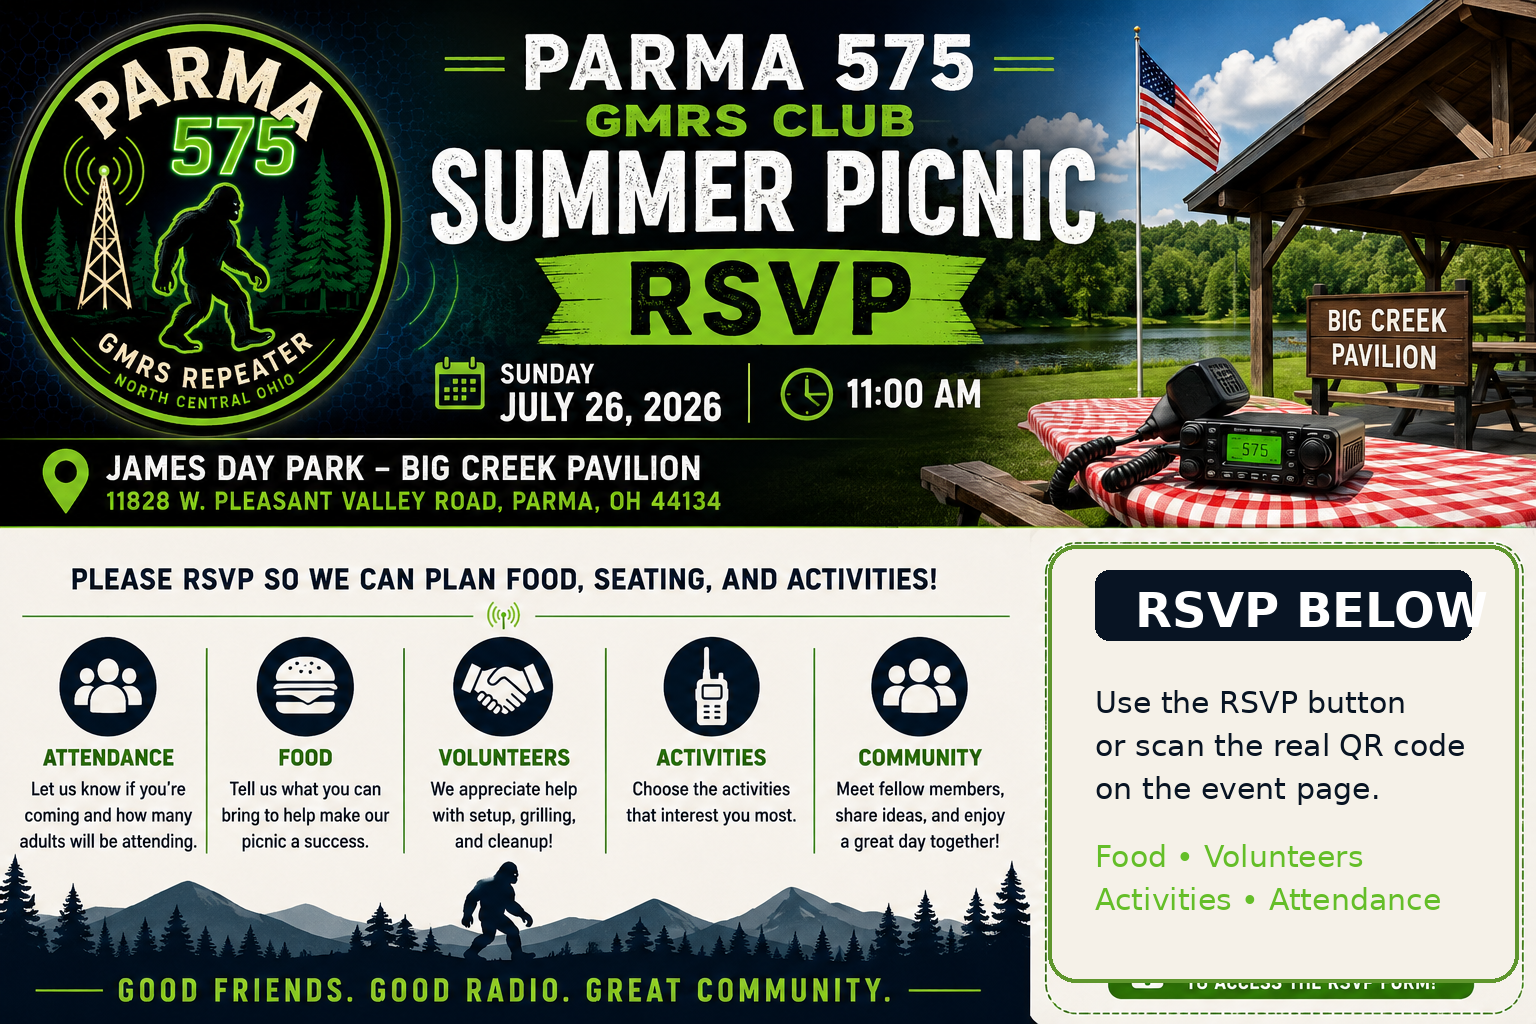
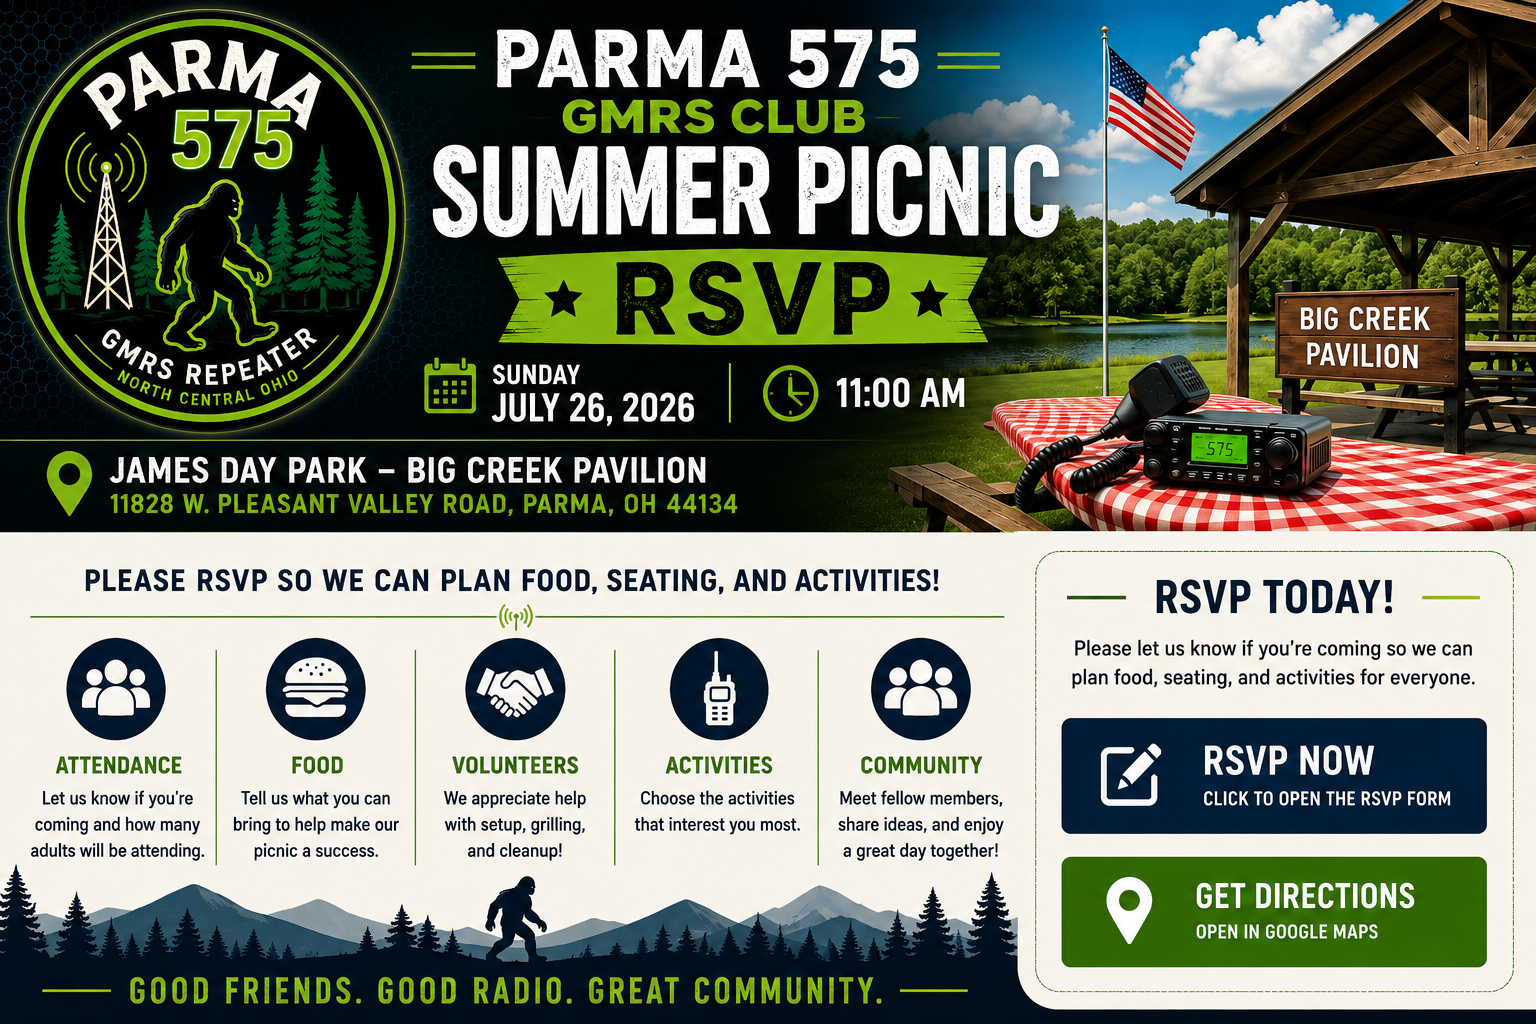
cleaned up

diff --git a/assets/css/style.css b/assets/css/style.css
@@ -724,3 +724,157 @@ img{max-width:100%;display:block}
     text-align: center;
   }
 }
+
+
+/* Clean mobile/event/visitor-counter updates */
+.event-detail-card,
+.event-detail-modern {
+  overflow: visible;
+}
+
+.event-hero-grid {
+  display: grid;
+  grid-template-columns: minmax(0, 1.7fr) minmax(280px, .8fr);
+  gap: 1.25rem;
+  align-items: stretch;
+}
+
+.event-flyer-panel,
+.event-rsvp-panel {
+  min-width: 0;
+}
+
+.event-detail-image {
+  width: 100%;
+  height: auto;
+  object-fit: contain;
+  border-radius: 16px;
+}
+
+.event-rsvp-panel {
+  background: rgba(255,255,255,.96);
+  color: #071525;
+  border: 2px solid rgba(112,197,47,.8);
+  border-radius: 18px;
+  padding: 1.2rem;
+  display: flex;
+  flex-direction: column;
+  align-items: center;
+  justify-content: center;
+}
+
+.event-qr-image {
+  width: min(260px, 75vw);
+  max-width: 100%;
+  height: auto;
+  background: #fff;
+  padding: 12px;
+  border-radius: 12px;
+  object-fit: contain;
+  image-rendering: pixelated;
+}
+
+.event-rsvp-button {
+  width: 100%;
+  margin-top: .8rem;
+}
+
+.event-rsvp-note {
+  font-size: .95rem;
+  text-align: center;
+  margin-bottom: 0;
+}
+
+.event-actions {
+  display: flex;
+  flex-wrap: wrap;
+  gap: .75rem;
+  margin-top: 1rem;
+}
+
+.visitor-counter {
+  margin-top: 1rem;
+  display: inline-flex;
+  align-items: center;
+  gap: .65rem;
+  justify-content: center;
+  flex-wrap: wrap;
+  padding: .7rem 1rem;
+  border: 1px solid rgba(99,197,255,.25);
+  border-radius: 999px;
+  background: rgba(255,255,255,.06);
+}
+
+.visitor-counter span {
+  color: var(--muted);
+  font-weight: 700;
+  font-size: .9rem;
+}
+
+.visitor-counter img {
+  display: inline-block;
+  max-width: 220px;
+  height: auto;
+}
+
+@media (max-width: 900px) {
+  .event-hero-grid {
+    grid-template-columns: 1fr;
+  }
+
+  .event-rsvp-panel {
+    margin-top: .5rem;
+  }
+
+  .event-actions .btn {
+    width: 100%;
+  }
+
+  .brand span {
+    font-size: 22px;
+  }
+
+  .brand small {
+    font-size: 11px;
+    letter-spacing: 2px;
+  }
+
+  .brand-icon,
+  .site-logo {
+    height: 82px;
+    max-width: 120px;
+  }
+}
+
+@media (max-width: 600px) {
+  .nav-wrap {
+    padding: 10px 14px;
+  }
+
+  .hero,
+  .page-hero,
+  .section {
+    padding-left: 12px;
+    padding-right: 12px;
+  }
+
+  .hero-buttons,
+  .nav-actions,
+  .event-row-actions {
+    width: 100%;
+  }
+
+  .hero-buttons .btn,
+  .nav-actions .btn,
+  .event-row-actions .btn {
+    width: 100%;
+  }
+
+  .event-rsvp-panel {
+    padding: 1rem;
+  }
+
+  .event-qr-image {
+    width: min(240px, 86vw);
+  }
+}

diff --git a/events.html b/events.html
@@ -24,20 +24,5 @@
 <script src="assets/js/events-render.js"></script>
 <script>renderParma575Events("events-list", "detail");</script>
 <script src="assets/js/main.js"></script>
-
-
-
-<!-- Working QR RSVP Box - Parma 575 Picnic -->
-<div class="rsvp-qr-box">
-  <h3>Scan to RSVP</h3>
-  <img class="rsvp-qr-img" src="assets/images/parma575-picnic-rsvp-qr.png" alt="QR code for Parma 575 picnic RSVP form">
-  <div class="rsvp-actions">
-    <a class="btn btn-blue" href="https://docs.google.com/forms/d/e/1FAIpQLSeWM8JRkixKm_jnnZDMxGTT9STpJOgLL3j694VfMgpTywkA5A/viewform" target="_blank" rel="noopener">Open RSVP Form</a>
-  </div>
-  <p class="rsvp-direct-link">
-    If the QR code will not scan, tap the RSVP button above.
-  </p>
-</div>
-
 </body>
 </html>

diff --git a/assets/js/events-data.js b/assets/js/events-data.js
@@ -6,7 +6,8 @@ const EVENTS = [
     time: "11:00 AM",
     location: "James Day Park – Big Creek Pavilion",
     address: "11828 W. Pleasant Valley Road, Parma, OH 44134",
-    description: "Please RSVP so we can plan food, seating, and activities.",
+    description: "Please RSVP so we can plan food, seating, and activities. Let us know if you are attending, what you can bring, and if you can help with setup, cleanup, or grilling.",
+    details: "Good friends. Good radio. Great community.",
     buttonText: "RSVP Now",
     buttonLink: "https://docs.google.com/forms/d/e/1FAIpQLSeWM8JRkixKm_jnnZDMxGTT9STpJOgLL3j694VfMgpTywkA5A/viewform",
     mapLink: "https://www.google.com/maps/search/?api=1&query=11828+W+Pleasant+Valley+Road+Parma+OH+44134",

diff --git a/assets/js/components.js b/assets/js/components.js
@@ -46,6 +46,10 @@ document.addEventListener("DOMContentLoaded", () => {
           <p class="footer-links">
             <a href="index.html">Home</a> · <a href="repeater.html">Repeater</a> · <a href="solar.html">Solar</a> · <a href="events.html">Events</a> · <a href="contact.html">Contact</a>
           </p>
+          <div class="visitor-counter" aria-label="Website visitor counter">
+            <span>Visitor Counter</span>
+            <img src="https://visitor-badge.laobi.icu/badge?page_id=parma575-gmrs-radio-group&left_text=Visitors" alt="Visitor counter">
+          </div>
         </div>
       </footer>`;
   }
